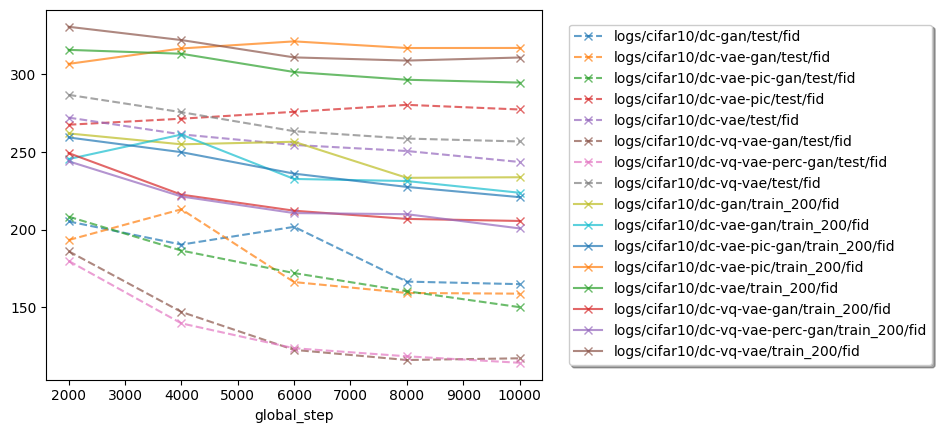
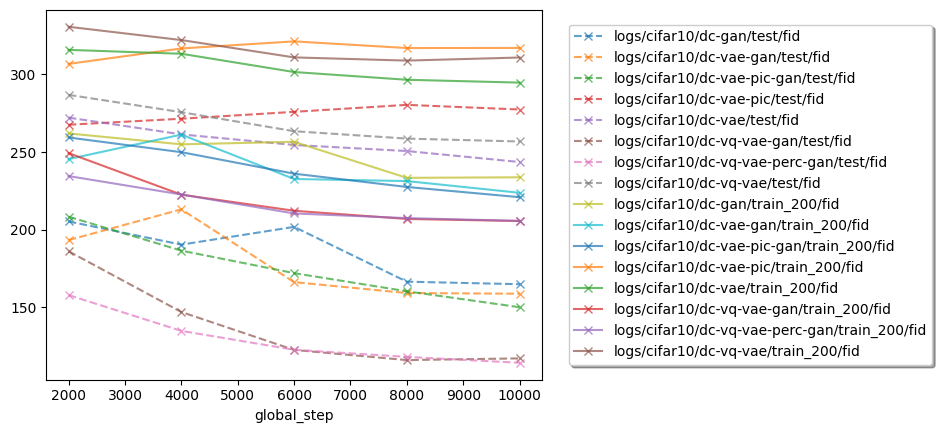
Update

diff --git a/README.md b/README.md
@@ -18,8 +18,8 @@ Compare some image generation models.
 
 | path                                       | split     |  step |     fid |
 | :----------------------------------------- | :-------- | ----: | ------: |
-| logs/cifar10/dc-vq-vae-perc-gan/1673343916 | train_200 | 10000 | 200.845 |
 | logs/cifar10/dc-vq-vae-gan/1673339840      | train_200 | 10000 | 205.634 |
+| logs/cifar10/dc-vq-vae-perc-gan/1673404674 | train_200 | 10000 | 205.701 |
 | logs/cifar10/dc-vae-pic-gan/1673335478     | train_200 | 10000 | 220.968 |
 | logs/cifar10/dc-vae-gan/1673341055         | train_200 | 10000 | 223.802 |
 | logs/cifar10/dc-gan/1673336477             | train_200 |  8000 | 233.425 |
@@ -31,7 +31,7 @@ Compare some image generation models.
 
 | path                                       | split |  step |     fid |
 | :----------------------------------------- | :---- | ----: | ------: |
-| logs/cifar10/dc-vq-vae-perc-gan/1673343916 | test  | 10000 | 114.301 |
+| logs/cifar10/dc-vq-vae-perc-gan/1673404674 | test  | 10000 | 114.352 |
 | logs/cifar10/dc-vq-vae-gan/1673339840      | test  |  8000 | 116.086 |
 | logs/cifar10/dc-vae-pic-gan/1673335478     | test  | 10000 | 150.127 |
 | logs/cifar10/dc-vae-gan/1673341055         | test  | 10000 | 158.812 |
